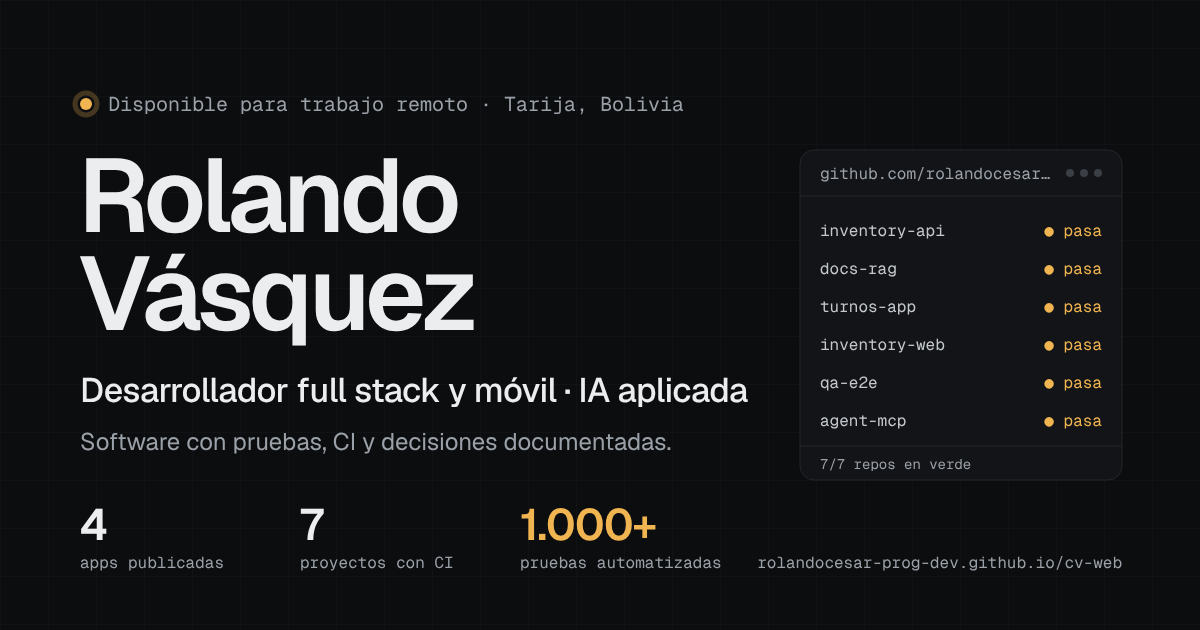
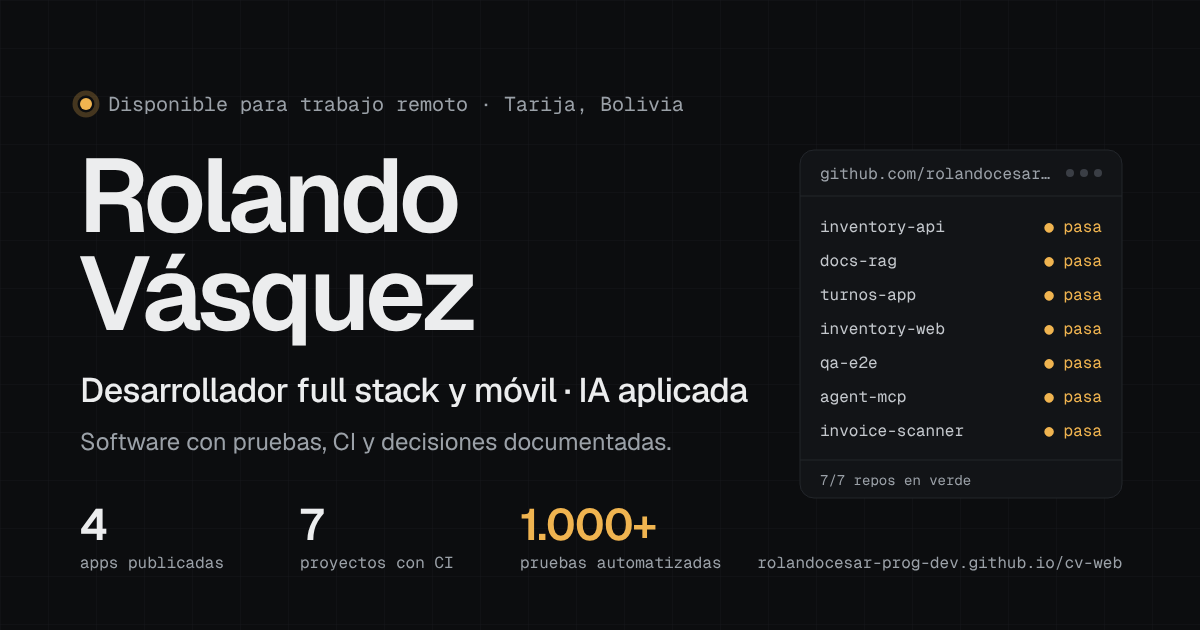
fix: imagen de previsualización con los 7 repositorios del panel

Changed region(s): [[0.6783, 0.3317, 0.8017, 0.6937], [0.8633, 0.3317, 0.925, 0.6937], [0.6783, 0.7238, 0.8017, 0.7841]]

diff --git a/index.html b/index.html
@@ -37,7 +37,7 @@
         <meta property="og:locale" content="es_BO" />
         <meta
             property="og:image"
-            content="https://rolandocesar-prog-dev.github.io/cv-web/img/og-image.png?v=2"
+            content="https://rolandocesar-prog-dev.github.io/cv-web/img/og-image.png?v=3"
         />
         <meta property="og:image:width" content="1200" />
         <meta property="og:image:height" content="630" />
@@ -54,7 +54,7 @@
         />
         <meta
             name="twitter:image"
-            content="https://rolandocesar-prog-dev.github.io/cv-web/img/og-image.png?v=2"
+            content="https://rolandocesar-prog-dev.github.io/cv-web/img/og-image.png?v=3"
         />
 
         <title>Rolando Vásquez — Desarrollador full stack y móvil</title>

diff --git a/en/index.html b/en/index.html
@@ -37,7 +37,7 @@
         <meta property="og:locale" content="en_US" />
         <meta
             property="og:image"
-            content="https://rolandocesar-prog-dev.github.io/cv-web/img/og-image.png?v=2"
+            content="https://rolandocesar-prog-dev.github.io/cv-web/img/og-image.png?v=3"
         />
         <meta property="og:image:width" content="1200" />
         <meta property="og:image:height" content="630" />
@@ -54,7 +54,7 @@
         />
         <meta
             name="twitter:image"
-            content="https://rolandocesar-prog-dev.github.io/cv-web/img/og-image.png?v=2"
+            content="https://rolandocesar-prog-dev.github.io/cv-web/img/og-image.png?v=3"
         />
 
         <title>Rolando Vásquez — Full stack and mobile developer</title>

diff --git a/README.md b/README.md
@@ -77,7 +77,7 @@ tools/.venv/Scripts/python tools/generar_cv_pdf.py
 
 `img/og-image.png` (1200×630) es la que usan LinkedIn, WhatsApp y X. `img/og-image.svg` es su fuente editable: tras cambiarla, vuelve a exportarla a PNG a 1200×630 con las fuentes Geist y Geist Mono disponibles (por ejemplo, abriéndola en un navegador con las fuentes instaladas y capturándola con Playwright); sin ellas el texto cambia de tipografía.
 
-Las redes guardan la imagen según su dirección: al cambiarla, sube también la versión `?v=N` de `og:image` y `twitter:image` en `index.html` (hoy `?v=2`) y vuelve a generar la versión en inglés; si no, LinkedIn sigue mostrando la anterior. Para refrescarla en LinkedIn: [Post Inspector](https://www.linkedin.com/post-inspector/).
+Las redes guardan la imagen según su dirección: al cambiarla, sube también la versión `?v=N` de `og:image` y `twitter:image` en `index.html` (hoy `?v=3`) y vuelve a generar la versión en inglés; si no, LinkedIn sigue mostrando la anterior. Para refrescarla en LinkedIn: [Post Inspector](https://www.linkedin.com/post-inspector/).
 
 Las cifras del panel «estado de los repositorios» y de las tarjetas están escritas en `index.html`: si cambia el número de pruebas de un proyecto, actualiza las dos y el total de la sección de cifras.
 

diff --git a/specs/design.md b/specs/design.md
@@ -90,7 +90,7 @@ sin tilde (`de`, `con`, `para`, `pruebas`, `proyectos`…) fuera de los nombres 
 - `sitemap.xml` con `<lastmod>` en las dos URL.
 - `img/og-image.svg` rehecha en oscuro con el titular vigente y exportada a PNG 1200×630 con
   Chromium (Playwright) y las fuentes Geist locales.
-- La dirección de la imagen lleva una versión (`og-image.png?v=2`): LinkedIn y otras redes guardan
+- La dirección de la imagen lleva una versión (`og-image.png?v=N`): LinkedIn y otras redes guardan
   la imagen por su dirección y solo la vuelven a descargar si esta cambia.
 
 ## 8. Verificación
